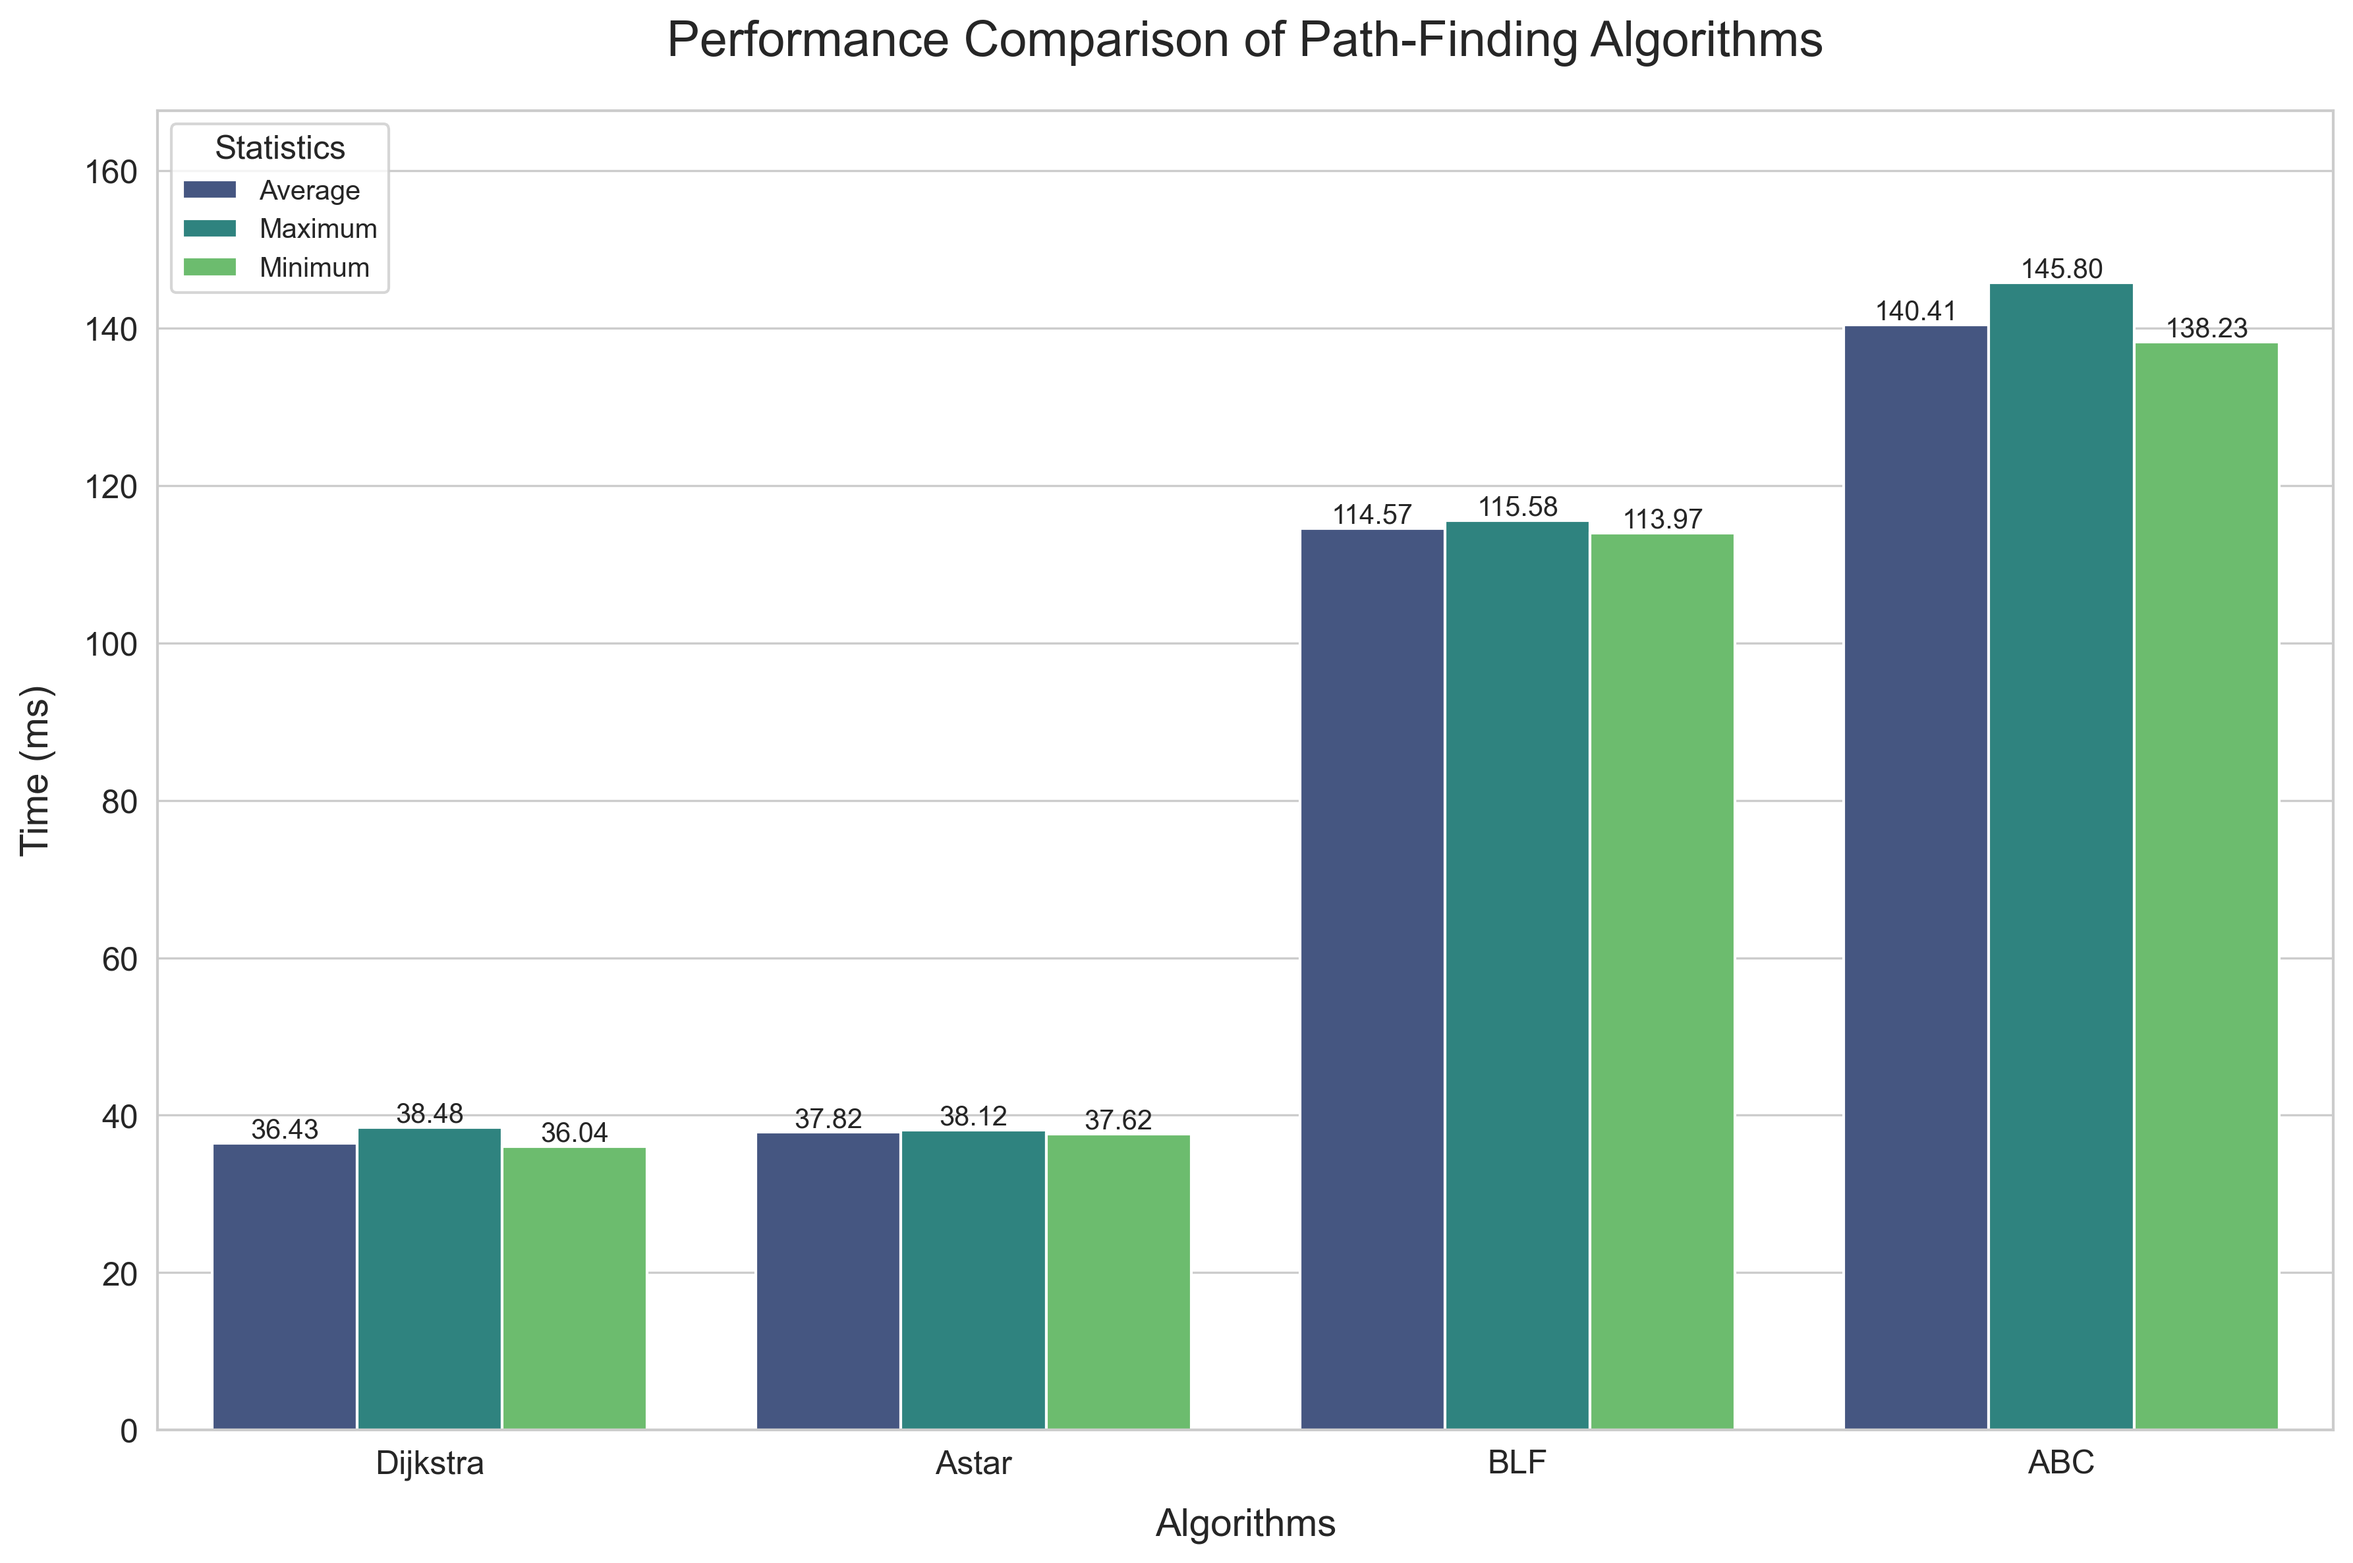
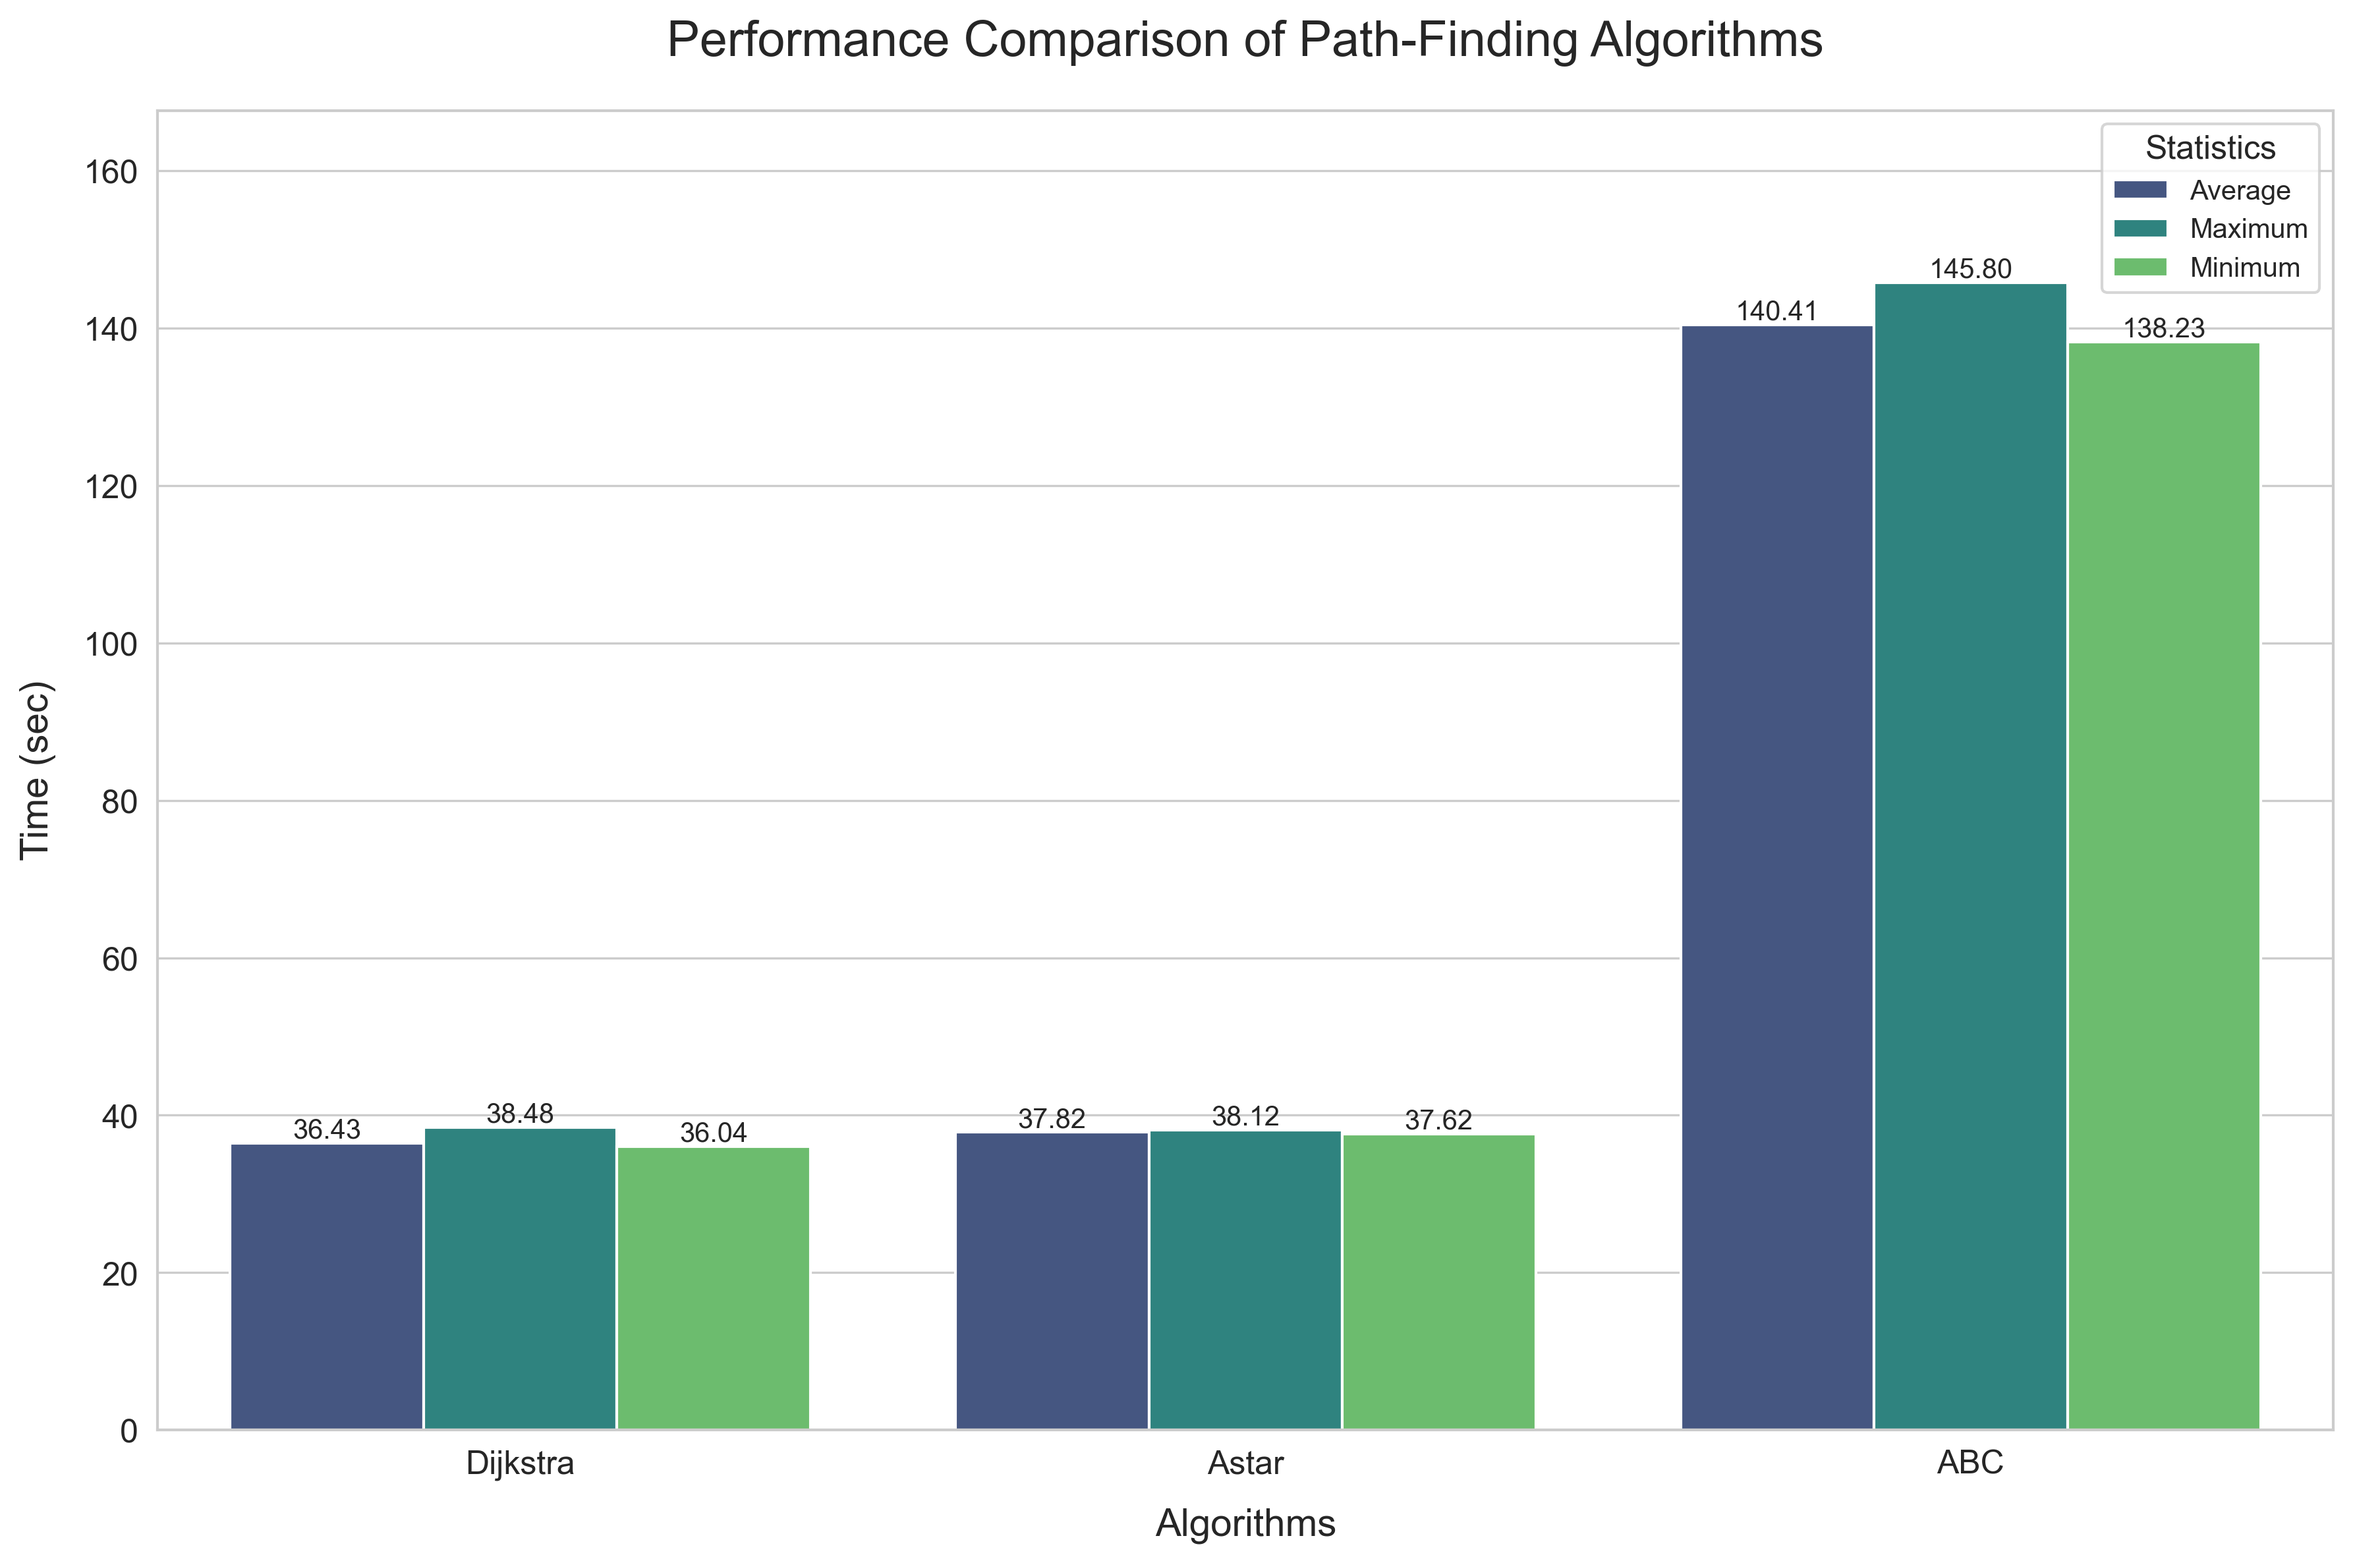
new files

Changed region(s): [[0.0933, 0.0624, 0.9947, 0.9671], [0.0622, 0.0624, 0.1554, 0.1872], [0.0, 0.4368, 0.0311, 0.5616]]

diff --git a/source/single_row_map.html b/source/single_row_map.html
@@ -25,7 +25,7 @@
             <meta name="viewport" content="width=device-width,
                 initial-scale=1.0, maximum-scale=1.0, user-scalable=no" />
             <style>
-                #map_01de980d092d32900cb0ebf4b80a77e1 {
+                #map_b6459e72547c6d7cb5930188223f7ac8 {
                     position: relative;
                     width: 100.0%;
                     height: 100.0%;
@@ -39,14 +39,14 @@
 <body>
     
     
-            <div class="folium-map" id="map_01de980d092d32900cb0ebf4b80a77e1" ></div>
+            <div class="folium-map" id="map_b6459e72547c6d7cb5930188223f7ac8" ></div>
         
 </body>
 <script>
     
     
-            var map_01de980d092d32900cb0ebf4b80a77e1 = L.map(
-                "map_01de980d092d32900cb0ebf4b80a77e1",
+            var map_b6459e72547c6d7cb5930188223f7ac8 = L.map(
+                "map_b6459e72547c6d7cb5930188223f7ac8",
                 {
                     center: [30.7333, 76.7794],
                     crs: L.CRS.EPSG3857,
@@ -63,7 +63,7 @@
 
         
     
-            var tile_layer_eb439eae8814083dcc031ca8d2bf34e4 = L.tileLayer(
+            var tile_layer_abf616d01f2fc9ecfa9b42f2014c0dcf = L.tileLayer(
                 "https://tile.openstreetmap.org/{z}/{x}/{y}.png",
                 {
   "minZoom": 0,
@@ -80,17 +80,17 @@
             );
         
     
-            tile_layer_eb439eae8814083dcc031ca8d2bf34e4.addTo(map_01de980d092d32900cb0ebf4b80a77e1);
+            tile_layer_abf616d01f2fc9ecfa9b42f2014c0dcf.addTo(map_b6459e72547c6d7cb5930188223f7ac8);
         
     
-            var marker_d913a5cbdc6908c782253c65e7849dd0 = L.marker(
+            var marker_f790f75d103d18dc742ee8e5d877ec2d = L.marker(
                 [30.704418817895, 76.799736963917],
                 {
 }
-            ).addTo(map_01de980d092d32900cb0ebf4b80a77e1);
+            ).addTo(map_b6459e72547c6d7cb5930188223f7ac8);
         
     
-            var icon_4bd9e0af587aeb905e93ae3201c1637f = L.AwesomeMarkers.icon(
+            var icon_39ff73e5f30791aa4e9d76a63431c7d9 = L.AwesomeMarkers.icon(
                 {
   "markerColor": "blue",
   "iconColor": "white",
@@ -101,30 +101,30 @@
             );
         
     
-        var popup_10b8ff470eda890f3daf619b6f138fff = L.popup({
+        var popup_303b6a195780e4b5a6bd4e55b32ef868 = L.popup({
   "maxWidth": "100%",
 });
 
         
             
-                var html_e9633bf756e793e09120c1ef354cf0f5 = $(`<div id="html_e9633bf756e793e09120c1ef354cf0f5" style="width: 100.0%; height: 100.0%;">Elante Mall - Point 1 Nearest Hub: A Distance: 3939.3538228132807 meters</div>`)[0];
-                popup_10b8ff470eda890f3daf619b6f138fff.setContent(html_e9633bf756e793e09120c1ef354cf0f5);
+                var html_48042b4436f279a92c438fa6fea88c78 = $(`<div id="html_48042b4436f279a92c438fa6fea88c78" style="width: 100.0%; height: 100.0%;">Elante Mall - Point 1 Nearest Hub: A Distance: 3939.3538228132807 meters</div>`)[0];
+                popup_303b6a195780e4b5a6bd4e55b32ef868.setContent(html_48042b4436f279a92c438fa6fea88c78);
             
         
 
-        marker_d913a5cbdc6908c782253c65e7849dd0.bindPopup(popup_10b8ff470eda890f3daf619b6f138fff)
+        marker_f790f75d103d18dc742ee8e5d877ec2d.bindPopup(popup_303b6a195780e4b5a6bd4e55b32ef868)
         ;
 
         
     
     
-                marker_d913a5cbdc6908c782253c65e7849dd0.setIcon(icon_4bd9e0af587aeb905e93ae3201c1637f);
+                marker_f790f75d103d18dc742ee8e5d877ec2d.setIcon(icon_39ff73e5f30791aa4e9d76a63431c7d9);
             
     
-            var poly_line_ff88f163955217f0a7e10c751768edac = L.polyline(
+            var poly_line_8063c65579f34d9ac79d463d5656f60f = L.polyline(
                 [[30.704418817895, 76.799736963917], [30.724913, 76.7878]],
                 {"bubblingMouseEvents": true, "color": "red", "dashArray": null, "dashOffset": null, "fill": false, "fillColor": "red", "fillOpacity": 0.2, "fillRule": "evenodd", "lineCap": "round", "lineJoin": "round", "noClip": false, "opacity": 1, "smoothFactor": 1.0, "stroke": true, "weight": 2.5}
-            ).addTo(map_01de980d092d32900cb0ebf4b80a77e1);
+            ).addTo(map_b6459e72547c6d7cb5930188223f7ac8);
         
 </script>
 </html>

diff --git a/source/abctest.py b/source/abctest.py
@@ -1,4 +1,3 @@
-
 #!/usr/bin/env python3
 import pandas as pd
 import numpy as np
@@ -6,12 +5,15 @@ import osmnx as ox
 import networkx as nx
 import time
 from datetime import datetime
+import folium
+from folium.plugins import MarkerCluster
+import webbrowser
+import os
+import random
+
 start_time = time.time()
 
-
-
 customer_data = pd.read_csv('customer_data_old.csv')
-
 
 hubs = {
     'A': (30.724913, 76.787800),
@@ -23,9 +25,11 @@ hubs = {
 print("Fetching Chandigarh map...")
 G = ox.graph_from_place('Chandigarh, India', network_type='drive')
 
+
 # Helper function to find nearest node on the graph given coordinates
 def nearest_node(lat, lon):
     return ox.distance.nearest_nodes(G, lon, lat)
+
 
 # Precompute hub nodes for efficiency
 hub_nodes = {hub: nearest_node(*coords) for hub, coords in hubs.items()}
@@ -56,6 +60,7 @@ for idx, row in customer_data.iterrows():
 
 distance_df = pd.DataFrame(distance_matrix)
 distance_df.insert(0, 'Location', customer_data['Location'])
+
 
 # Artificial Bee Colony Algorithm implementation
 class ABCAlgorithm:
@@ -90,7 +95,7 @@ class ABCAlgorithm:
             if fitness_values[min_idx] < self.best_cost:
                 self.best_cost = fitness_values[min_idx]
                 self.best_solution = population[min_idx].copy()
-                print(f"Iteration {iteration+1}: Best total distance so far: {self.best_cost:.2f} meters")
+                print(f"Iteration {iteration + 1}: Best total distance so far: {self.best_cost:.2f} meters")
 
             # Employed bees phase (local search)
             for i in range(self.n_bees):
@@ -101,7 +106,7 @@ class ABCAlgorithm:
                     population[i] = new_sol
 
             # Onlooker bees phase (probabilistic selection based on fitness)
-            fitness_inv = [1/f if f > 0 else 0 for f in fitness_values]
+            fitness_inv = [1 / f if f > 0 else 0 for f in fitness_values]
             probs_sum = np.sum(fitness_inv)
             probs = fitness_inv / probs_sum if probs_sum > 0 else np.ones(self.n_bees) / self.n_bees
 
@@ -120,6 +125,7 @@ class ABCAlgorithm:
         print("ABC optimization completed.")
         return dict(zip(self.locations, self.best_solution))
 
+
 # Run ABC algorithm to get optimal assignments
 abc_solver = ABCAlgorithm(distance_df)
 optimal_assignment = abc_solver.run()
@@ -127,7 +133,7 @@ optimal_assignment = abc_solver.run()
 # Save final results including route details to CSV file
 final_results = []
 
-print("Saving results to abc_distances2.csv...")
+print("Saving results to abc_new.csv...")
 for idx, row in customer_data.iterrows():
     loc_name = row['Location']
     assigned_hub = optimal_assignment[loc_name]
@@ -143,9 +149,75 @@ for idx, row in customer_data.iterrows():
 final_results_df = pd.DataFrame(final_results)
 final_results_df.to_csv('abc_new.csv', index=False)
 
+# Create a Folium map centered on Chandigarh
+print("Creating map visualization...")
+chandigarh_center = [30.7333, 76.7794]
+m = folium.Map(location=chandigarh_center, zoom_start=12, tiles='OpenStreetMap')
+
+# Define colors for different hubs
+hub_colors = {
+    'A': 'red',
+    'B': 'blue',
+    'C': 'green',
+    'D': 'purple'
+}
+
+# Add hub markers
+for hub_name, (lat, lon) in hubs.items():
+    folium.Marker(
+        location=[lat, lon],
+        popup=f"Hub {hub_name}",
+        icon=folium.Icon(color=hub_colors[hub_name], icon='home', prefix='fa'),
+    ).add_to(m)
+
+# Create marker clusters for customers grouped by assigned hub
+hub_clusters = {hub: MarkerCluster(name=f"Customers assigned to Hub {hub}") for hub in hubs.keys()}
+for cluster in hub_clusters.values():
+    cluster.add_to(m)
+
+# Add customer markers and routes
+for result in final_results:
+    hub_name = result['NearestHub']
+    customer_location = [result['Latitude'], result['Longitude']]
+
+    # Add customer marker to appropriate cluster
+    folium.Marker(
+        location=customer_location,
+        popup=f"Customer: {result['Location']}<br>Assigned to Hub {hub_name}<br>Distance: {result['Distance(meters)']:.2f} meters",
+        icon=folium.Icon(color=hub_colors[hub_name], icon='user', prefix='fa'),
+    ).add_to(hub_clusters[hub_name])
+
+    # Get route coordinates
+    route_nodes = result['Route(nodes)']
+    if route_nodes and len(route_nodes) > 1:
+        route_coords = []
+        for node in route_nodes:
+            # Get node coordinates from graph
+            y, x = G.nodes[node]['y'], G.nodes[node]['x']
+            route_coords.append([y, x])
+
+        # Plot route line
+        folium.PolyLine(
+            locations=route_coords,
+            color=hub_colors[hub_name],
+            weight=2,
+            opacity=0.7,
+            popup=f"Route from Hub {hub_name} to {result['Location']}"
+        ).add_to(m)
+
+# Add layer control
+folium.LayerControl().add_to(m)
+
+# Save the map to an HTML file
+map_file = 'chandigarh_routes_map.html'
+m.save(map_file)
+
+# Open the map in the default web browser
+print(f"Opening map in web browser: {map_file}")
+webbrowser.open('file://' + os.path.realpath(map_file))
+
 print("All tasks completed successfully!")
 end_time = time.time()
 execution_time = end_time - start_time
-
 
 print(f"Execution time: {execution_time} seconds")

diff --git a/source/comparision_time_graph.py b/source/comparision_time_graph.py
@@ -4,20 +4,19 @@ import matplotlib.pyplot as plt
 import numpy as np
 
 # Create a DataFrame with the statistics
-algorithms = ['Dijkstra', 'Astar', 'BLF', 'ABC']
-avg_values = [36.43, 37.82, 114.57, 140.41]
-max_values = [38.48, 38.12, 115.58, 145.80]
-min_values = [36.04, 37.62, 113.97, 138.23]
+algorithms = ['Dijkstra', 'Astar',  'ABC']
+avg_values = [36.43, 37.82, 140.41]
+max_values = [38.48, 38.12, 145.80]
+min_values = [36.04, 37.62, 138.23]
 
 # Reshape data for seaborn
 data = pd.DataFrame({
     'Algorithm': np.repeat(algorithms, 3),
-    'Statistic': np.tile(['Average', 'Maximum', 'Minimum'], 4),
+    'Statistic': np.tile(['Average', 'Maximum', 'Minimum'], 3),
     'Value': np.concatenate([
         np.array([avg_values[0], max_values[0], min_values[0]]),
         np.array([avg_values[1], max_values[1], min_values[1]]),
-        np.array([avg_values[2], max_values[2], min_values[2]]),
-        np.array([avg_values[3], max_values[3], min_values[3]])
+        np.array([avg_values[2], max_values[2], min_values[2]])
     ])
 })
 
@@ -41,7 +40,7 @@ for container in ax.containers:
 # Customize the plot
 plt.title('Performance Comparison of Path-Finding Algorithms', fontsize=18, pad=20)
 plt.xlabel('Algorithms', fontsize=14, labelpad=10)
-plt.ylabel('Time (ms)', fontsize=14, labelpad=10)
+plt.ylabel('Time (sec)', fontsize=14, labelpad=10)
 plt.legend(title='Statistics', title_fontsize=12, fontsize=10)
 
 # Adjust y-axis to start from 0

diff --git a/source/comapre.py b/source/comapre.py
@@ -16,7 +16,6 @@ star = df1['ShortestDistance']
 
 plt.plot(abc, linestyle='-',label='ABC')
 plt.plot(dikstra, linestyle='-',label='DIJKSTRA')
-plt.plot(bellman, linestyle='-',label='BELLMAN')
 plt.plot(star, linestyle='-',label='STAR')
 plt.legend()
 plt.grid(True)
